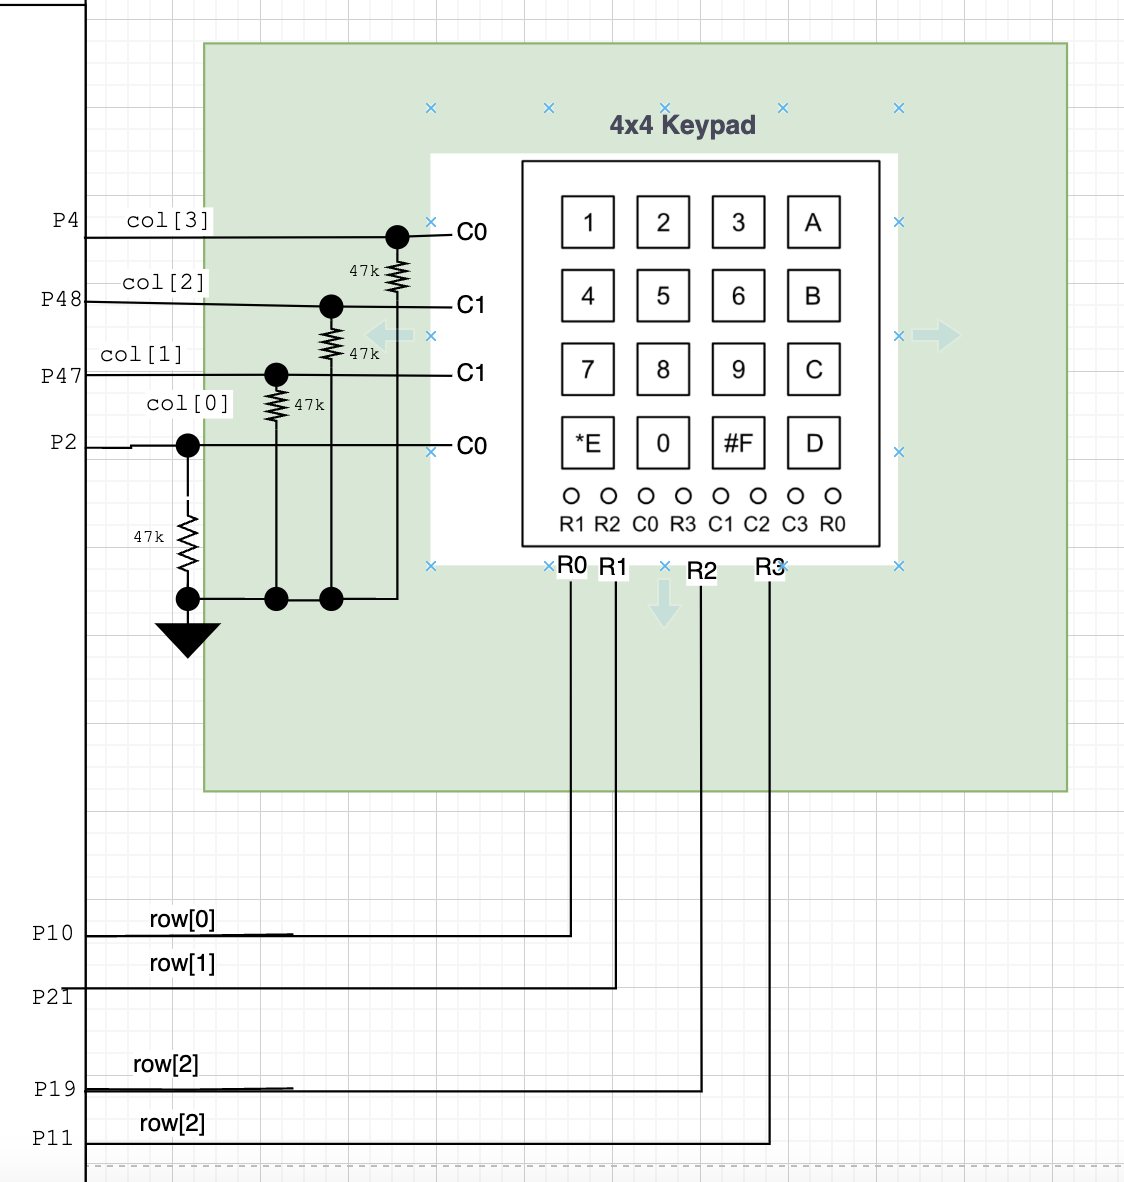
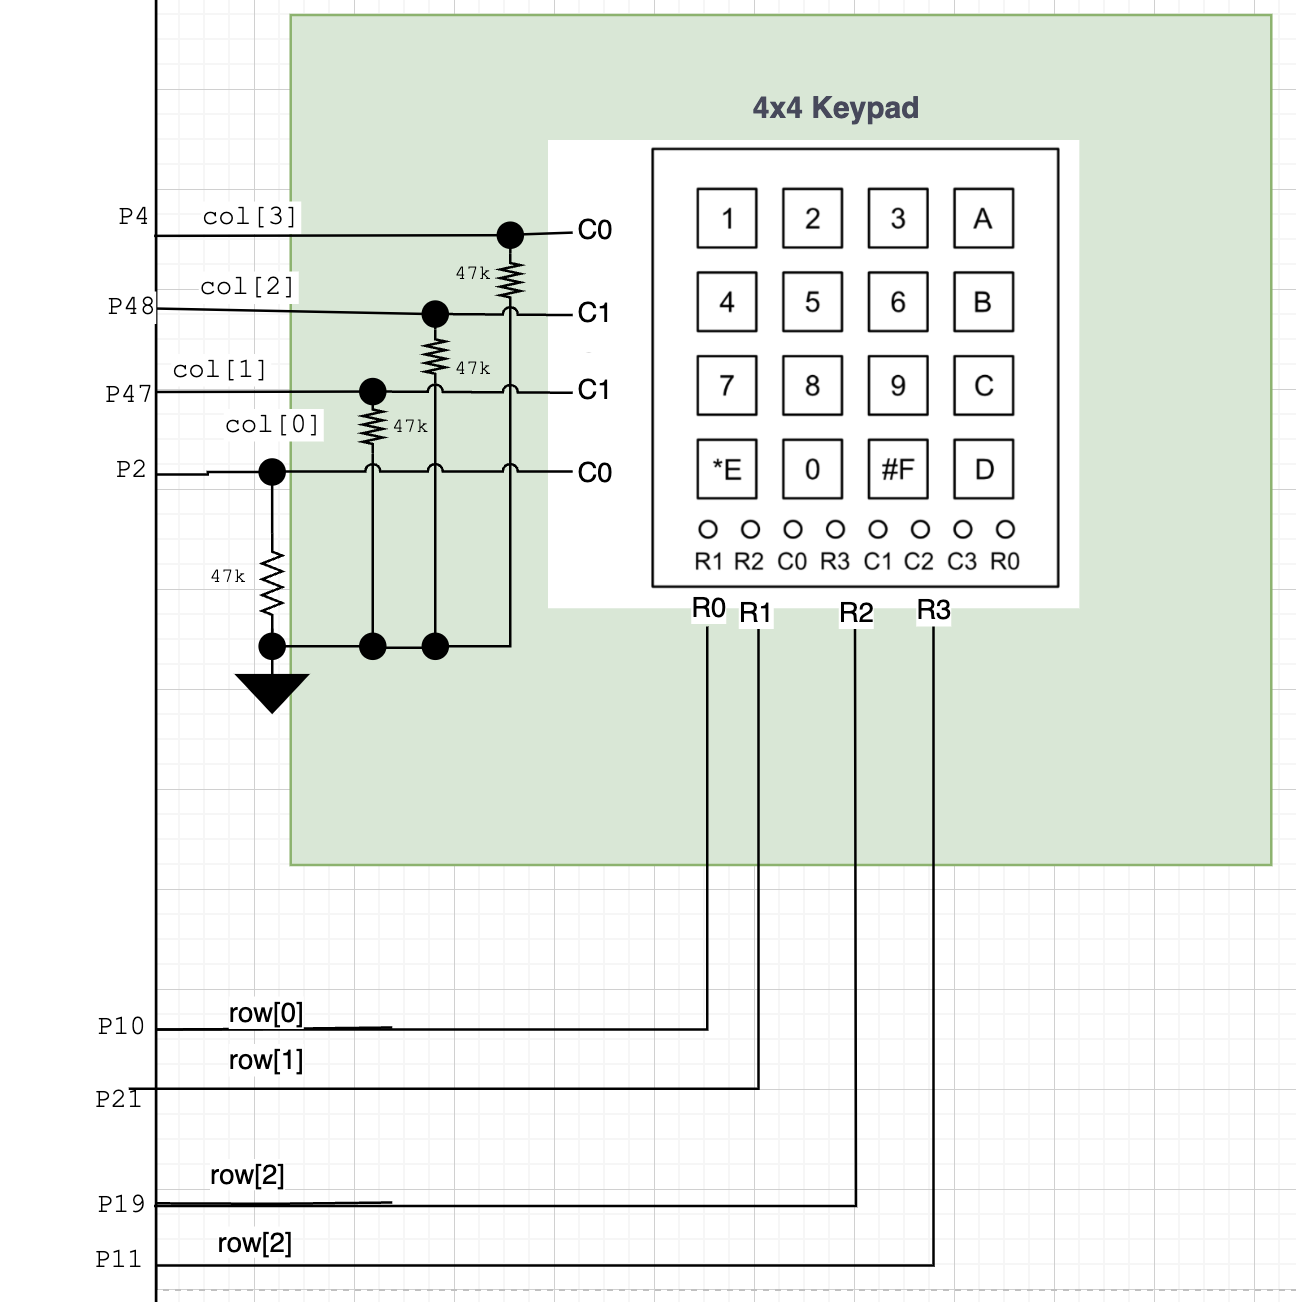
Built site for gh-pages

Changed region(s): [[0.0311, 0.0, 1.0, 1.0], [0.3425, 0.7614, 0.4048, 0.7919], [0.4359, 0.7614, 0.4671, 0.7919]]

diff --git a/projects/e-155_website/labs/lab1/lab1.html b/projects/e-155_website/labs/lab1/lab1.html
@@ -249,7 +249,7 @@ ul.task-list li input[type="checkbox"] {
 <section id="hardware-setup" class="level4">
 <h4 class="anchored" data-anchor-id="hardware-setup">Hardware Setup</h4>
 <p>The first stage of this lab involved the soldering of the MCU and the FPGA, as well as all additional SMD and THT pins. To do this, the <a href="https://pages.hmc.edu/brake/class/e155/fa23/assets/doc/E155%20Development%20Board%20Schematic.pdf">E155 FA23 Development Board</a> schematic was used. To begin, the SMD components were soldered. Careful consideration was given to make sure that the diodes were soldered in the right order and facing the correct direction. After these were soldered, THT components were then soldered, including the 4-pin DIP switch, the 8-pin DIP switch, and the female headers (<a href="#fig-imag1" class="quarto-xref">Figure&nbsp;1</a>).</p>
-<div id="fig-imag1" class="quarto-float quarto-figure quarto-figure-center anchored" alt="Image 1" data-fig-align="center">
+<div id="fig-imag1" class="quarto-float quarto-figure quarto-figure-center anchored" data-fig-align="center" alt="Image 1">
 <figure class="quarto-float quarto-float-fig figure">
 <div aria-describedby="fig-imag1-caption-0ceaefa1-69ba-4598-a22c-09a6ac19f8ca">
 <img src="images/SMD_and_THT.JPG" class="img-fluid quarto-figure quarto-figure-center figure-img" style="width:50.0%" alt="Image 1">
@@ -303,7 +303,7 @@ Figure&nbsp;4: The Voltmeter while powering the screw terminal
 </div>
 <p>All soldered pins and the required impedance values and relevant pin numbers can be found in the E155 FA23 Development Board pdf, linked in “Other Links” on this page. Once confirmation was had that the board was properly powering all pins using the screw terminal, the transition was then made to powering the board using both the MCU and the FPGA individually via a micro-USB cable.</p>
 <p>The final schematic for this design can be seen below.</p>
-<div id="fig-schem" class="quarto-float quarto-figure quarto-figure-center anchored" width="60%" data-fig-align="center">
+<div id="fig-schem" class="quarto-float quarto-figure quarto-figure-center anchored" data-fig-align="center" width="60%">
 <figure class="quarto-float quarto-float-fig figure">
 <div aria-describedby="fig-schem-caption-0ceaefa1-69ba-4598-a22c-09a6ac19f8ca">
 <img src="images/block_diagram_program2.png" id="fig-schem" class="img-fluid quarto-figure quarto-figure-center anchored figure-img" style="width:60.0%">
@@ -337,7 +337,7 @@ Figure&nbsp;4: The Voltmeter while powering the screw terminal
 </div>
 <p>If we compare A and B, we can see how the current through the diodes will differ between each situation. In case A, the one that I used, if one diode isn’t lit up, it has no impact on the current traveling through the other diode: in every case, the voltage drop will assuredly be either 0V or 2.1 V across a given diode, irrelevant to any other segment within this case. However in case B, the same can not be said. If two diodes are lit up, they will be using double the amount of current, and resultantly the voltage drop caused by the single resistor will double. This means that there will be a smaller voltage drop across the diodes, which means that the more segments that are lit up, the less bright the matrix will glow - if it glows at all. This is why all of the resistors were attached to each cathode in the final design, rather than one resistor being connected to the common anode.</p>
 <p>The FPGA board maps to all pins starting with P; the MCU maps to all pins starting with PA. In order to accomplish the correct mapping, I drew a diagram (<a href="#fig-imag5" class="quarto-xref">Figure&nbsp;8</a>) that mapped the pin number, the segment controlled, and then the GPIO pin I intended for each part of the device. I knew that seg[0] was assigned to segA, seg[6] to segG, etc., and resultantly I was able to make a basic table that I then implemented on my breadboard (<a href="#tbl-sevenseg" class="quarto-xref">Table&nbsp;1</a>)</p>
-<div id="fig-imag5" class="quarto-float quarto-figure quarto-figure-center anchored" width="10%" data-fig-align="center">
+<div id="fig-imag5" class="quarto-float quarto-figure quarto-figure-center anchored" data-fig-align="center" width="10%">
 <figure class="quarto-float quarto-float-fig figure">
 <div aria-describedby="fig-imag5-caption-0ceaefa1-69ba-4598-a22c-09a6ac19f8ca">
 <img src="images/sevenseg_mapping.png" id="fig-imag5" class="img-fluid quarto-figure quarto-figure-center anchored figure-img" style="width:10.0%">

diff --git a/projects/e-155_website/labs/lab3/lab3.html b/projects/e-155_website/labs/lab3/lab3.html
@@ -76,8 +76,8 @@ ul.task-list li input[type="checkbox"] {
 <meta property="og:description" content="">
 <meta property="og:image" content="https://zoe-worrall.github.io/e155_labs/projects/e-155_website/labs/lab3/images/4x4Kepad.png">
 <meta property="og:site_name" content="Zoe Worrall's Website">
-<meta property="og:image:height" content="1182">
-<meta property="og:image:width" content="1124">
+<meta property="og:image:height" content="1302">
+<meta property="og:image:width" content="1296">
 </head>
 
 <body class="nav-fixed">
@@ -399,7 +399,7 @@ Table&nbsp;2: <strong>State Transition Table for the Row States</strong>
 <li><strong>flop_me</strong>: a flip flop of some defined length that runs every time within the function in order to solve any metastability that may be present with a button push.</li>
 <li><strong>letter_receiver</strong>: a combinational logic block that combines the saved indices of the rows and columns in order to solve for whatever letter/number was pressed. This is how I get the next_letter variable within my finite state machine.</li>
 </ul>
-<p><img src="images/block_diagram.png" class="img-fluid"></p>
+<p><img src="images/block_diagram_2.png" class="img-fluid"></p>
 <p>I confirmed using Questa that I was able to get the right values for all potential row inputs that I would have by iterating through the fsm (see the testbench below)</p>
 <p><img src="images/fsm_testbench.png" class="img-fluid"></p>
 <p>In order to form a comprehensive test, I initially begin by making sure that every row can be cycled through while we reside inside the Waiting state. No column was entered, and the testbench was used to track that the past letters, current letters, and finally the row cycling; since this is the waiting state, and nothing’s been pressed, the rows should cycle, and the output letters (0 and 0) stay the same (<a href="#fig-cyclingrows" class="quarto-xref">Figure&nbsp;2</a>)</p>
@@ -446,7 +446,7 @@ Table&nbsp;2: <strong>State Transition Table for the Row States</strong>
 <p>As can be seen in <a href="#fig-lab03Test" class="quarto-xref">Figure&nbsp;5</a>, the full test could be run, and the expected oscillations between segments occured as lab03 was run.</p>
 <p>In both of these cases, I used a testbench to initialize and push inputs into the modules, and made sure that the expected values matched what I anticipated (indicated by no errors appearing in the terminal window).</p>
 <p>The final schematic of my system was very simple to make. I used four GPIO pins from the FPGA E155 adapter board as an output into the rows, and four GPIO pins from this same board as inputs. Of additional note, becuase I considered 1’s as “high” on my board, I turned off the pull-up resistors inside the column pins, and implemented pulldown resistors of 47kOhm impedance on my board, with the knowledge that the keypad’s resistors range between 60 and 200 Ohms (found by testing in lab with an oscilloscope); resultantly, any voltage drop caused by the voltage-divider setup I had made would be negligable over the keypad, and would allow for proper reading of the signal. All other parts of this schematic, as a reader may likely recognize, are the same as from Lab2; the seven segment display as well as it PNP transistors are all plugged into the same pins, and depend on the same inputs.</p>
-<p><img src="images/schematic_lab3.png" class="img-fluid"></p>
+<p><img src="images/schematic_lab3_2.png" class="img-fluid"></p>
 <p><img src="images/4x4Kepad.png" class="img-fluid"></p>
 </section>
 <section id="results-and-discussion" class="level3">

diff --git a/projects/e-155_website/index.html b/projects/e-155_website/index.html
@@ -318,7 +318,7 @@ Sep 9, 2024
 </div>
 </a>
 </div>
-<div class="g-col-1" data-index="2" data-categories="labreport" data-listing-date-sort="1725865200000" data-listing-file-modified-sort="1726771259662" data-listing-date-modified-sort="NaN" data-listing-reading-time-sort="11" data-listing-word-count-sort="2188">
+<div class="g-col-1" data-index="2" data-categories="labreport" data-listing-date-sort="1725865200000" data-listing-file-modified-sort="1726772233463" data-listing-date-modified-sort="NaN" data-listing-reading-time-sort="11" data-listing-word-count-sort="2188">
 <a href="../../projects/e-155_website/labs/lab3/lab3.html" class="quarto-grid-link">
 <div class="quarto-grid-item card h-100 card-left">
 <p class="card-img-top">
